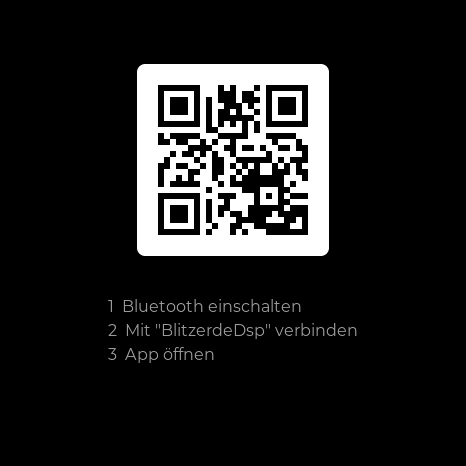
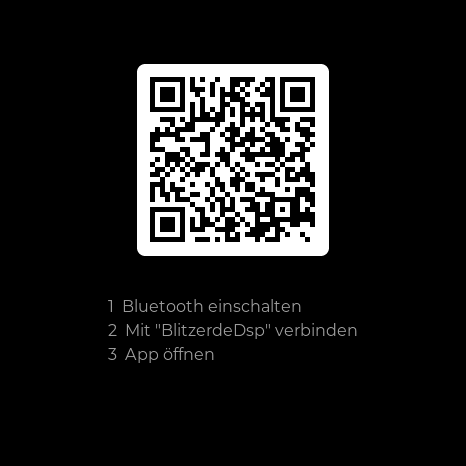
feat: pairing QR points at the repository page; firmware version 0.1.0
- BSP_PAIR_URL (and the screen's default payload) is now the repository
  page, whose README explains the pairing; it replaces a link into a third
  party's domain. The on-screen QR was decoded from the simulator screenshot
  to confirm the payload.
- Firmware version 0.1.0 (was 0.1.0-dev). The Settings footer reads
  core::firmware_version() instead of a hard-coded string, and
  tools/check_version_sync.py (also a CI step) keeps core/model/version.cpp
  and board_config.h equal so DeviceInfo.fwVersion cannot drift.

Changed region(s): [[0.3004, 0.1502, 0.691, 0.5408]]

diff --git a/firmware/main/board_config.h b/firmware/main/board_config.h
@@ -106,13 +106,14 @@
 // ─────────────────────────────────────────────────────────────────────────────
 // Firmware / protocol identity
 // ─────────────────────────────────────────────────────────────────────────────
-#define BSP_FW_VERSION             "0.1.0-dev"
+#define BSP_FW_VERSION             "0.1.0"   // keep == core/model/version.cpp (tools/check_version_sync.py)
 #define BSP_PROTOCOL_VERSION       1
 
-// The pairing QR on the "Handy verbinden" screen points here — a link that
-// forwards to the companion app in the Play Store / App Store.
-// TODO(verify): replace with the real store / smart link once it exists.
-#define BSP_PAIR_URL               "https://blitzer.de/dsp"
+// The pairing QR on the "Handy verbinden" screen points here: the repository page,
+// whose README explains how to connect the display to the app. (Decision 2026-10-24;
+// swap for a store / smart link when the app is published. ui/screens/connect_screen.cpp
+// carries the same default until set_connect_qr() is called.)
+#define BSP_PAIR_URL               "https://github.com/Romsmo/TN-DSP"
 
 // NVS namespaces
 #define BSP_NVS_NS_SETTINGS        "settings"

diff --git a/tools/check_version_sync.py b/tools/check_version_sync.py
@@ -1,0 +1,39 @@
+#!/usr/bin/env python3
+"""The firmware version is written in two places that cannot include each other
+(core/model/version.cpp for host + footer, firmware/main/board_config.h for DeviceInfo).
+This fails if they differ, so DeviceInfo.fwVersion and the Settings footer cannot drift.
+
+    python tools/check_version_sync.py [--print]
+"""
+import os
+import re
+import sys
+
+ROOT = os.path.join(os.path.dirname(os.path.abspath(__file__)), "..")
+
+
+def grab(path, pattern):
+    text = open(os.path.join(ROOT, path), encoding="utf-8").read()
+    m = re.search(pattern, text)
+    if not m:
+        sys.exit(f"{path}: version not found")
+    return m.group(1)
+
+
+def versions():
+    return (grab("core/model/version.cpp", r'#define BDSP_FW_VERSION "([^"]+)"'),
+            grab("firmware/main/board_config.h", r'#define BSP_FW_VERSION\s+"([^"]+)"'))
+
+
+def main():
+    core_v, board_v = versions()
+    if "--print" in sys.argv:
+        print(core_v)
+    if core_v != board_v:
+        sys.exit(f"version mismatch: core/model/version.cpp={core_v!r} board_config.h={board_v!r}")
+    if "--print" not in sys.argv:
+        print("firmware version in sync:", core_v)
+
+
+if __name__ == "__main__":
+    main()

diff --git a/ui/screens/screen_manager.cpp b/ui/screens/screen_manager.cpp
@@ -1,5 +1,6 @@
 #include "ui/screens/screen_manager.h"
 
+#include "core/model/version.h"
 #include "ui/overlays/confirm_overlay.h"
 #include "ui/overlays/hazard_overlay.h"
 #include "ui/screens/connect_screen.h"
@@ -108,7 +109,7 @@ void ScreenManager::go_to(Tile t, bool animate) {
 }
 
 void ScreenManager::set_link_status(const char* text) {
-    settings_->set_footer("0.1.0-dev", 1, text);
+    settings_->set_footer(core::firmware_version(), 1, text);
 }
 
 void ScreenManager::set_connect_qr(const char* payload) {

diff --git a/ui/screens/connect_screen.cpp b/ui/screens/connect_screen.cpp
@@ -14,7 +14,7 @@ namespace {
 constexpr int kQrSize = 168;
 constexpr int kQrPad = 12;
 // Placeholder until the composition root supplies the real link.
-const char* kInitialPayload = "https://blitzer.de/dsp";
+const char* kInitialPayload = "https://github.com/Romsmo/TN-DSP";   // = BSP_PAIR_URL
 }  // namespace
 
 ConnectScreen::ConnectScreen(lv_obj_t* parent) {

diff --git a/core/model/version.cpp b/core/model/version.cpp
@@ -1,7 +1,7 @@
 #include "core/model/version.h"
 
 #ifndef BDSP_FW_VERSION
-#define BDSP_FW_VERSION "0.1.0-dev"
+#define BDSP_FW_VERSION "0.1.0"
 #endif
 
 namespace core {
